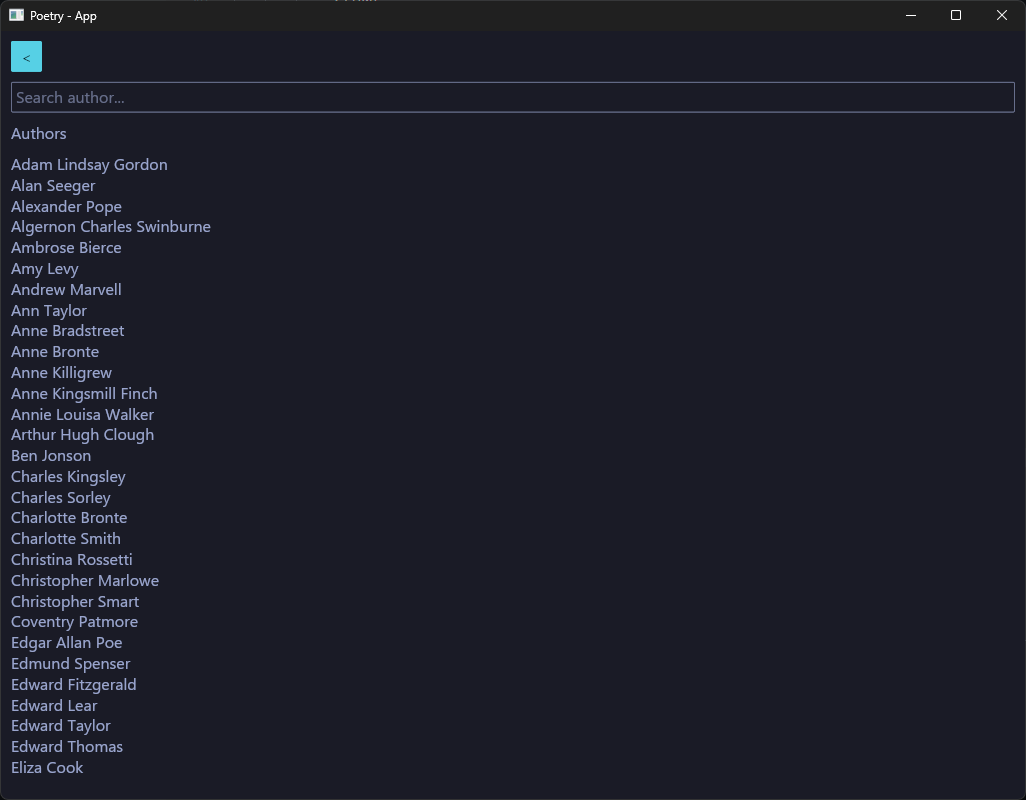
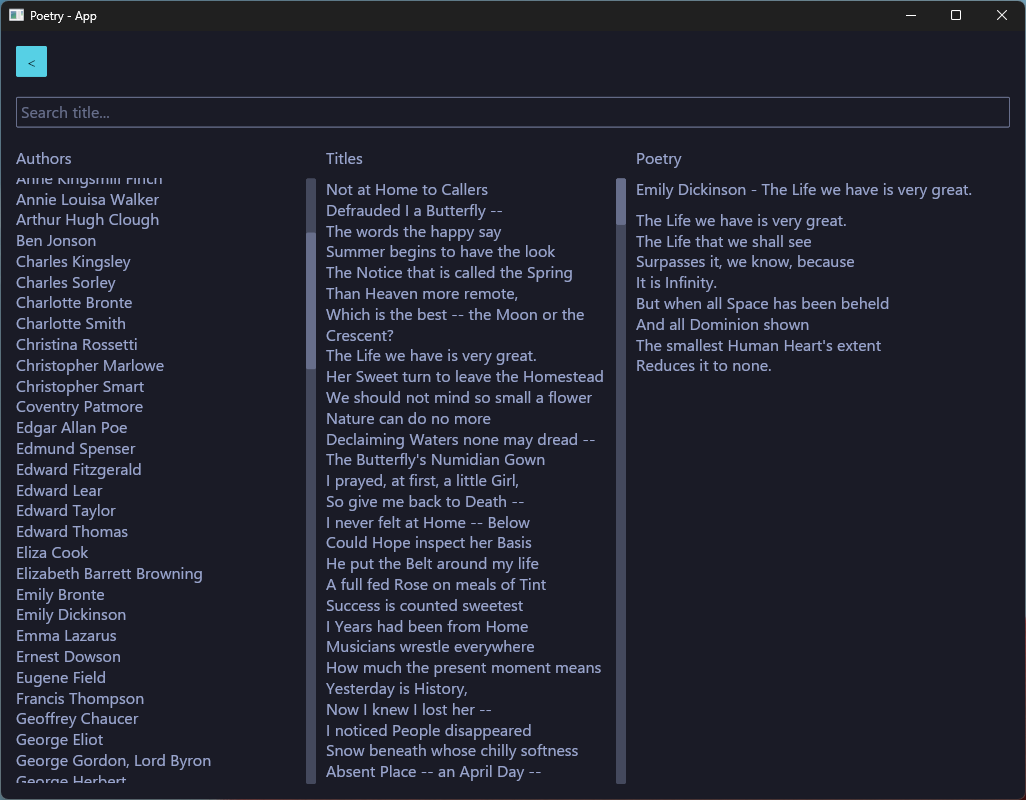
poetry

Changed region(s): [[0.2807, 0.1875, 0.9357, 1.0], [0.0, 0.0312, 0.2183, 1.0], [0.9981, 0.0, 1.0, 1.0]]

diff --git a/src/screen/poetry.rs b/src/screen/poetry.rs
@@ -1,5 +1,5 @@
 use iced::{
-    widget::{button, column, container, text, text_input, Column},
+    widget::{button, column, container, mouse_area, row, scrollable, text, text_input, Column},
     Element, Task,
 };
 
@@ -26,10 +26,6 @@ pub enum Message {
     PoetryFetched(PoetryStruct),
 }
 
-pub enum Action {
-    None,
-}
-
 const NAME: &str = "Poetry";
 
 impl Poetry {
@@ -54,27 +50,48 @@ impl Poetry {
         format!("{NAME} - App")
     }
 
-    pub fn update(&mut self, message: Message) -> Action {
+    pub fn update(&mut self, message: Message) -> Task<Message> {
         match message {
             Message::BackButtonPressed => todo!(),
             Message::SearchChanged(search) => {
                 self.search = search;
-                Action::None
+                Task::none()
             }
             Message::AuthorsFetched(authors) => {
                 self.authors = authors;
-                Action::None
+                Task::none()
             }
-            Message::AuthorSelected(_) => todo!(),
-            Message::TitlesFetched(_) => todo!(),
-            Message::TitleSelected(_) => todo!(),
-            Message::PoetryFetched(_poetry) => todo!(),
+            Message::AuthorSelected(author) => {
+                self.author = author.to_owned();
+                if author.is_some() {
+                    Task::future(self.fetch_poetry.to_owned().fetch_titles(author.unwrap()))
+                        .map(|result| Message::TitlesFetched(result.unwrap()))
+                } else {
+                    Task::none()
+                }
+            }
+            Message::TitlesFetched(titles) => {
+                self.titles = titles;
+                Task::none()
+            }
+            Message::TitleSelected(title) => {
+                self.title = title.to_owned();
+                if title.is_some() {
+                    Task::future(self.fetch_poetry.to_owned().fetch_poetry(title.unwrap()))
+                        .map(|result| Message::PoetryFetched(result.unwrap()))
+                } else {
+                    Task::none()
+                }
+            }
+            Message::PoetryFetched(poetry) => {
+                self.poetry = Some(poetry);
+                Task::none()
+            }
         }
     }
 
     pub fn view(&self) -> Element<Message> {
         let to_select_author = self.author.is_none();
-        let _to_select_title = self.title.is_none();
         let content = column![]
             .push(button(text("<")).on_press(Message::BackButtonPressed))
             .push(
@@ -82,33 +99,75 @@ impl Poetry {
                     if to_select_author {
                         "Search author..."
                     } else {
-                        "Search title.."
+                        "Search title..."
                     },
                     &self.search,
                 )
                 .on_input(Message::SearchChanged),
             )
-            .push(text(if to_select_author {
-                "Authors"
-            } else {
-                "Titles"
-            }))
-            .push(if to_select_author {
-                Column::with_children(
-                    self.authors
-                        .iter()
-                        .map(|author| text(author).into())
-                        .collect::<Vec<Element<Message>>>(),
-                )
-            } else {
-                Column::with_children(
-                    self.titles
-                        .iter()
-                        .map(|title| text(title).into())
-                        .collect::<Vec<Element<Message>>>(),
-                )
-            })
-            .spacing(10);
-        container(content).padding(10).into()
+            .push(
+                row![]
+                    .push(
+                        column![
+                            text("Authors"),
+                            scrollable(Column::with_children(
+                                self.authors
+                                    .iter()
+                                    .map(|author| {
+                                        mouse_area(text(author))
+                                            .on_press(Message::AuthorSelected(Some(
+                                                author.to_owned(),
+                                            )))
+                                            .into()
+                                    })
+                                    .collect::<Vec<Element<Message>>>(),
+                            ))
+                            .width(300),
+                        ]
+                        .spacing(10),
+                    )
+                    .push(
+                        column![
+                            text("Titles"),
+                            scrollable(Column::with_children(
+                                self.titles
+                                    .iter()
+                                    .map(|title| {
+                                        mouse_area(text(title))
+                                            .on_press(Message::TitleSelected(Some(
+                                                title.to_owned(),
+                                            )))
+                                            .into()
+                                    })
+                                    .collect::<Vec<Element<Message>>>(),
+                            ))
+                            .width(300),
+                        ]
+                        .spacing(10),
+                    )
+                    .push(
+                        column![
+                            text("Poetry"),
+                            match &self.poetry {
+                                Some(poetry) => column![
+                                    text(format!("{} - {}", poetry.author, poetry.title)),
+                                    Column::with_children(
+                                        poetry
+                                            .lines
+                                            .iter()
+                                            .map(|line| text(line).into())
+                                            .collect::<Vec<Element<Message>>>(),
+                                    )
+                                ]
+                                .spacing(10),
+                                None => column![text("Select author and title")],
+                            }
+                        ]
+                        .spacing(10),
+                    )
+                    .spacing(10),
+            )
+            .spacing(20);
+        container(content).padding(15).into()
     }
 }

diff --git a/src/data/poetry.rs b/src/data/poetry.rs
@@ -20,10 +20,10 @@ struct Title {
 
 #[derive(Debug, Deserialize, Clone)]
 pub struct Poetry {
-    author: String,
-    title: String,
-    lines: Vec<String>,
-    linecount: String,
+    pub author: String,
+    pub title: String,
+    pub lines: Vec<String>,
+    // linecount: String,
 }
 
 impl FetchPoetry {
@@ -44,7 +44,7 @@ impl FetchPoetry {
         Ok(authors_res.authors)
     }
 
-    pub async fn fetch_titles(self, author: &str) -> Result<Vec<String>, Error> {
+    pub async fn fetch_titles(self, author: String) -> Result<Vec<String>, Error> {
         let titles_res = self
             .client
             .get(format!("{POETRYDB_URL}/author/{author}/title"))
@@ -59,7 +59,7 @@ impl FetchPoetry {
         Ok(titles)
     }
 
-    pub async fn fetch_poetry(self, title: &str) -> Result<Poetry, Error> {
+    pub async fn fetch_poetry(self, title: String) -> Result<Poetry, Error> {
         let poetry_res = self
             .client
             .get(format!("{POETRYDB_URL}/title/{title}:abs"))

diff --git a/src/main.rs b/src/main.rs
@@ -51,9 +51,11 @@ impl App {
         match message {
             Message::Loaded { system } => {
                 self.system = Some(*system);
+
                 // let (screen1, task) = screen1::Screen1::new();
                 // self.screen = Screen::Screen1(screen1);
                 // task.map(Message::Screen1)
+
                 let (poetry, task) = poetry::Poetry::new();
                 self.screen = Screen::Poetry(poetry);
                 task.map(Message::Poetry)
@@ -89,10 +91,8 @@ impl App {
             }
             Message::Poetry(message) => {
                 if let Screen::Poetry(poetry) = &mut self.screen {
-                    let action = poetry.update(message);
-                    match action {
-                        poetry::Action::None => Task::none(),
-                    }
+                    let task = poetry.update(message);
+                    task.map(Message::Poetry)
                 } else {
                     Task::none()
                 }

diff --git a/README.md b/README.md
@@ -2,4 +2,4 @@
 iced (gui) +
 public apis
 
-![screenshot](screenshot/screenshot-screen2.png)
+![screenshot](screenshot/screenshot-poetry.png)
